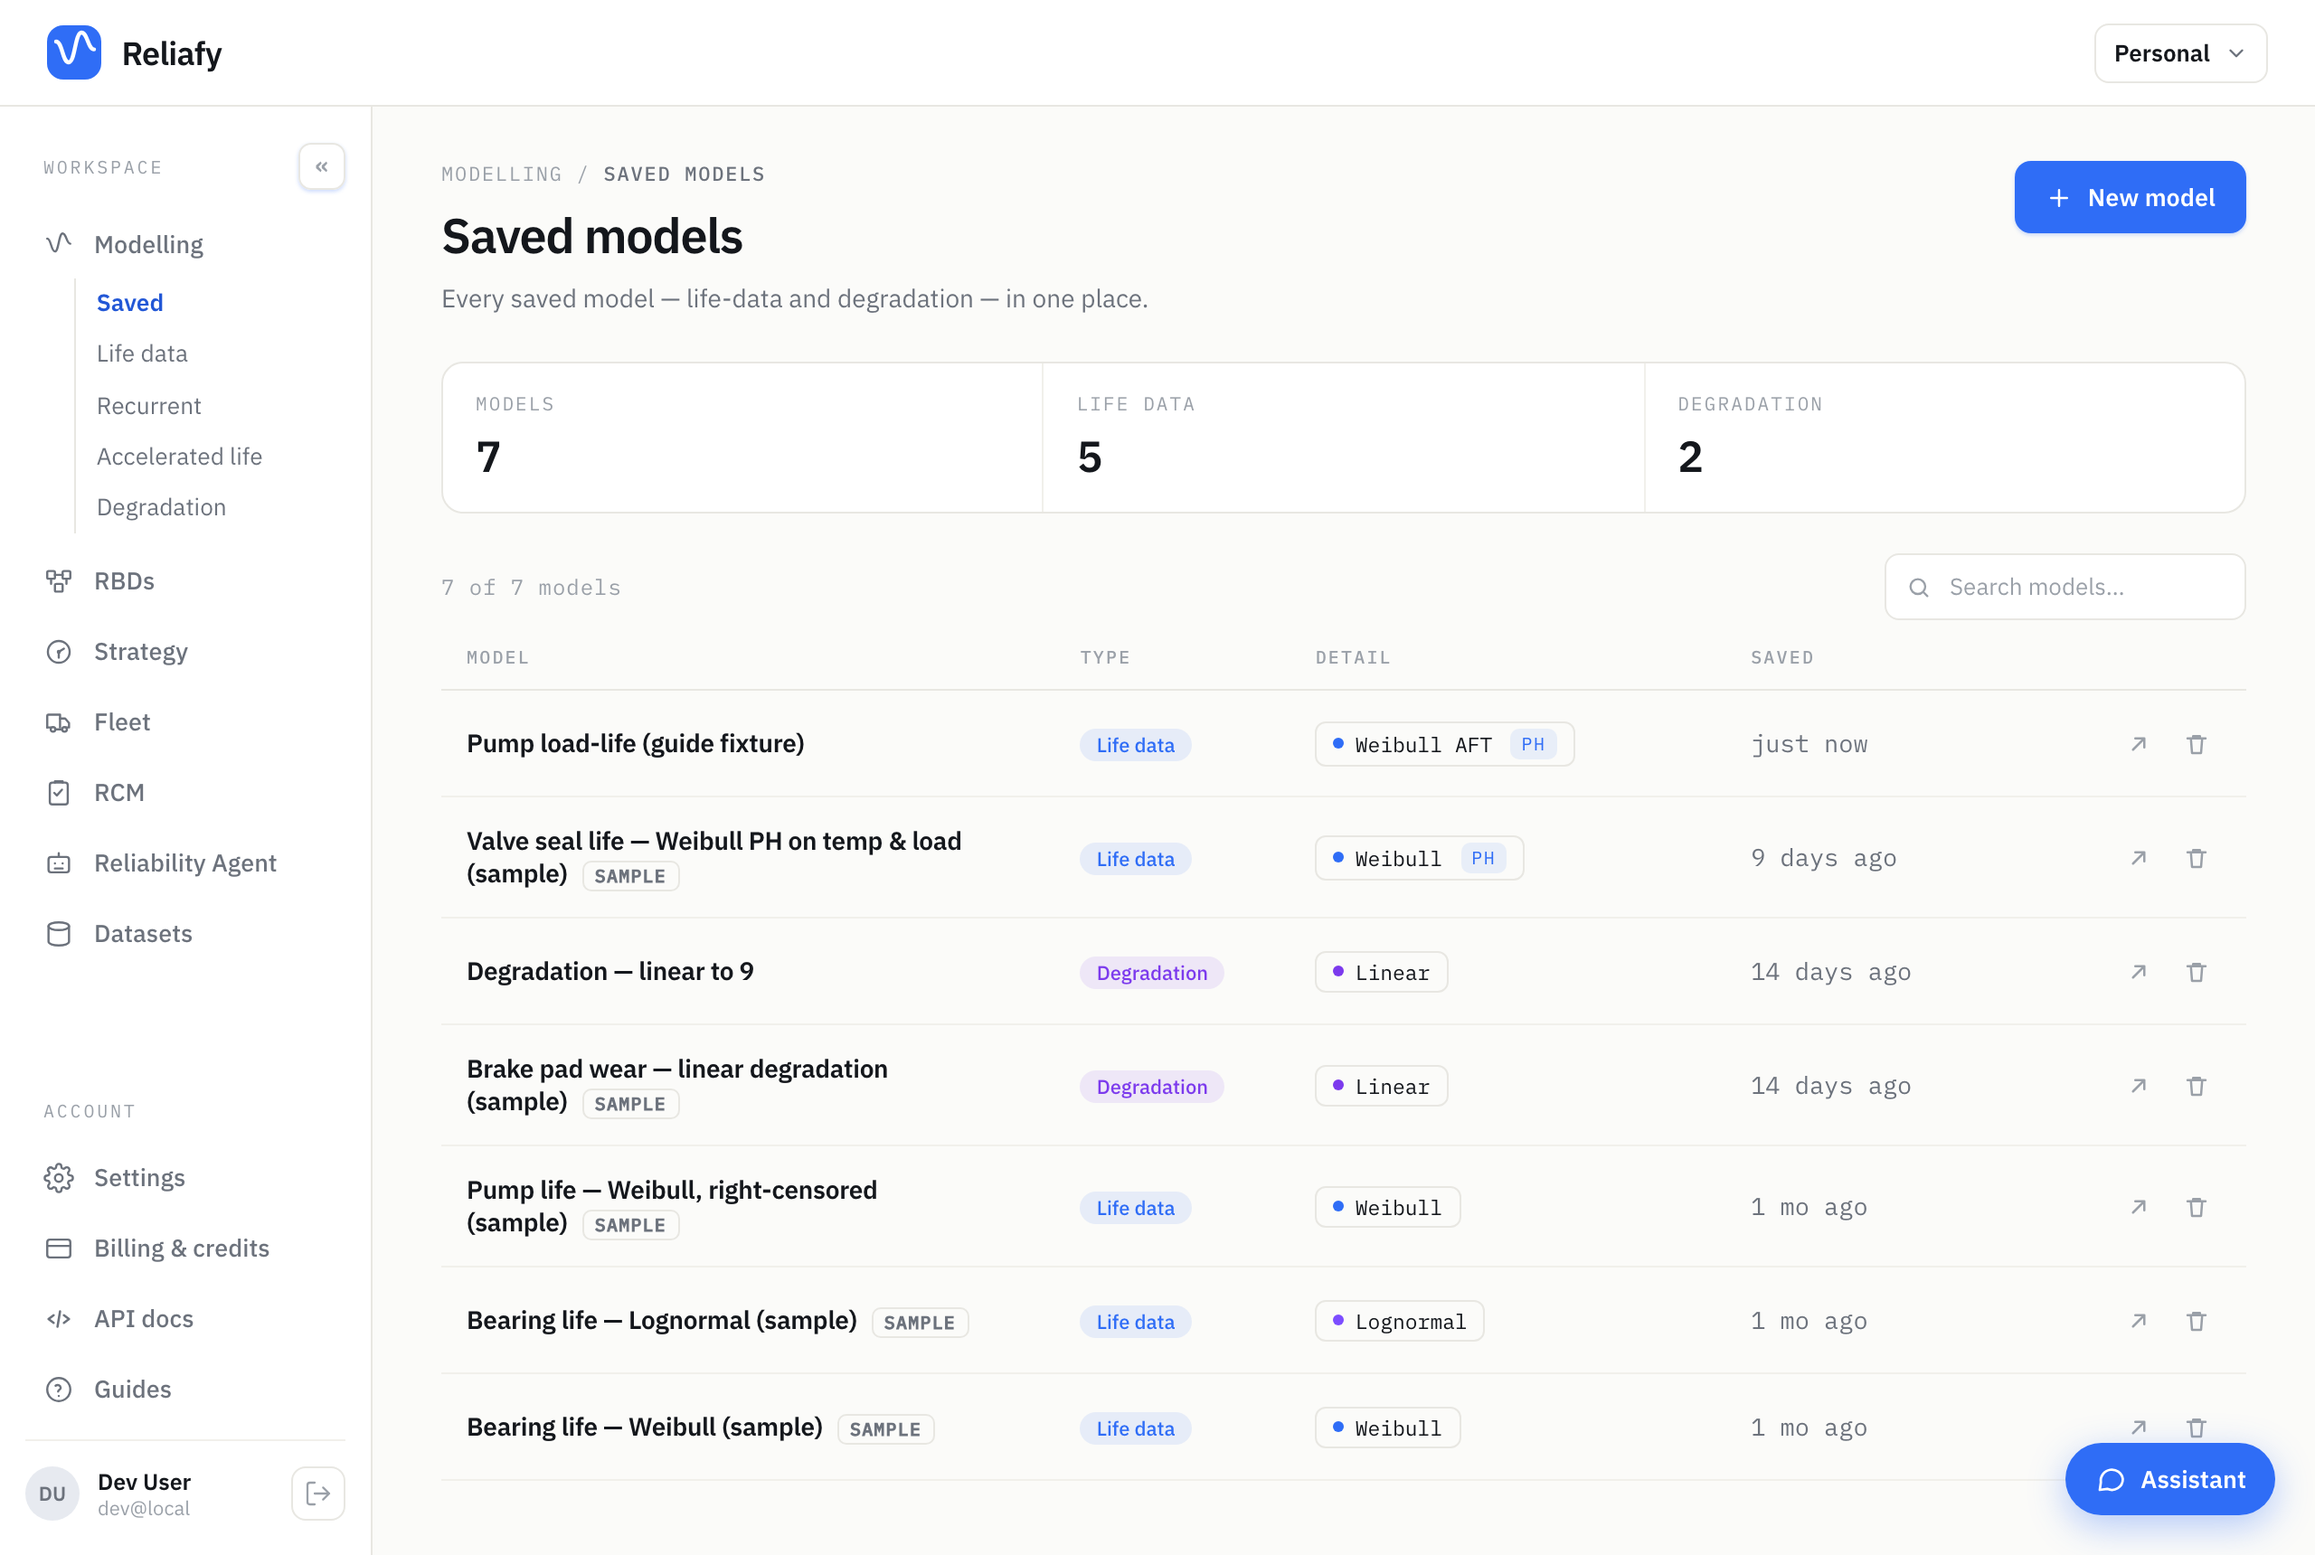
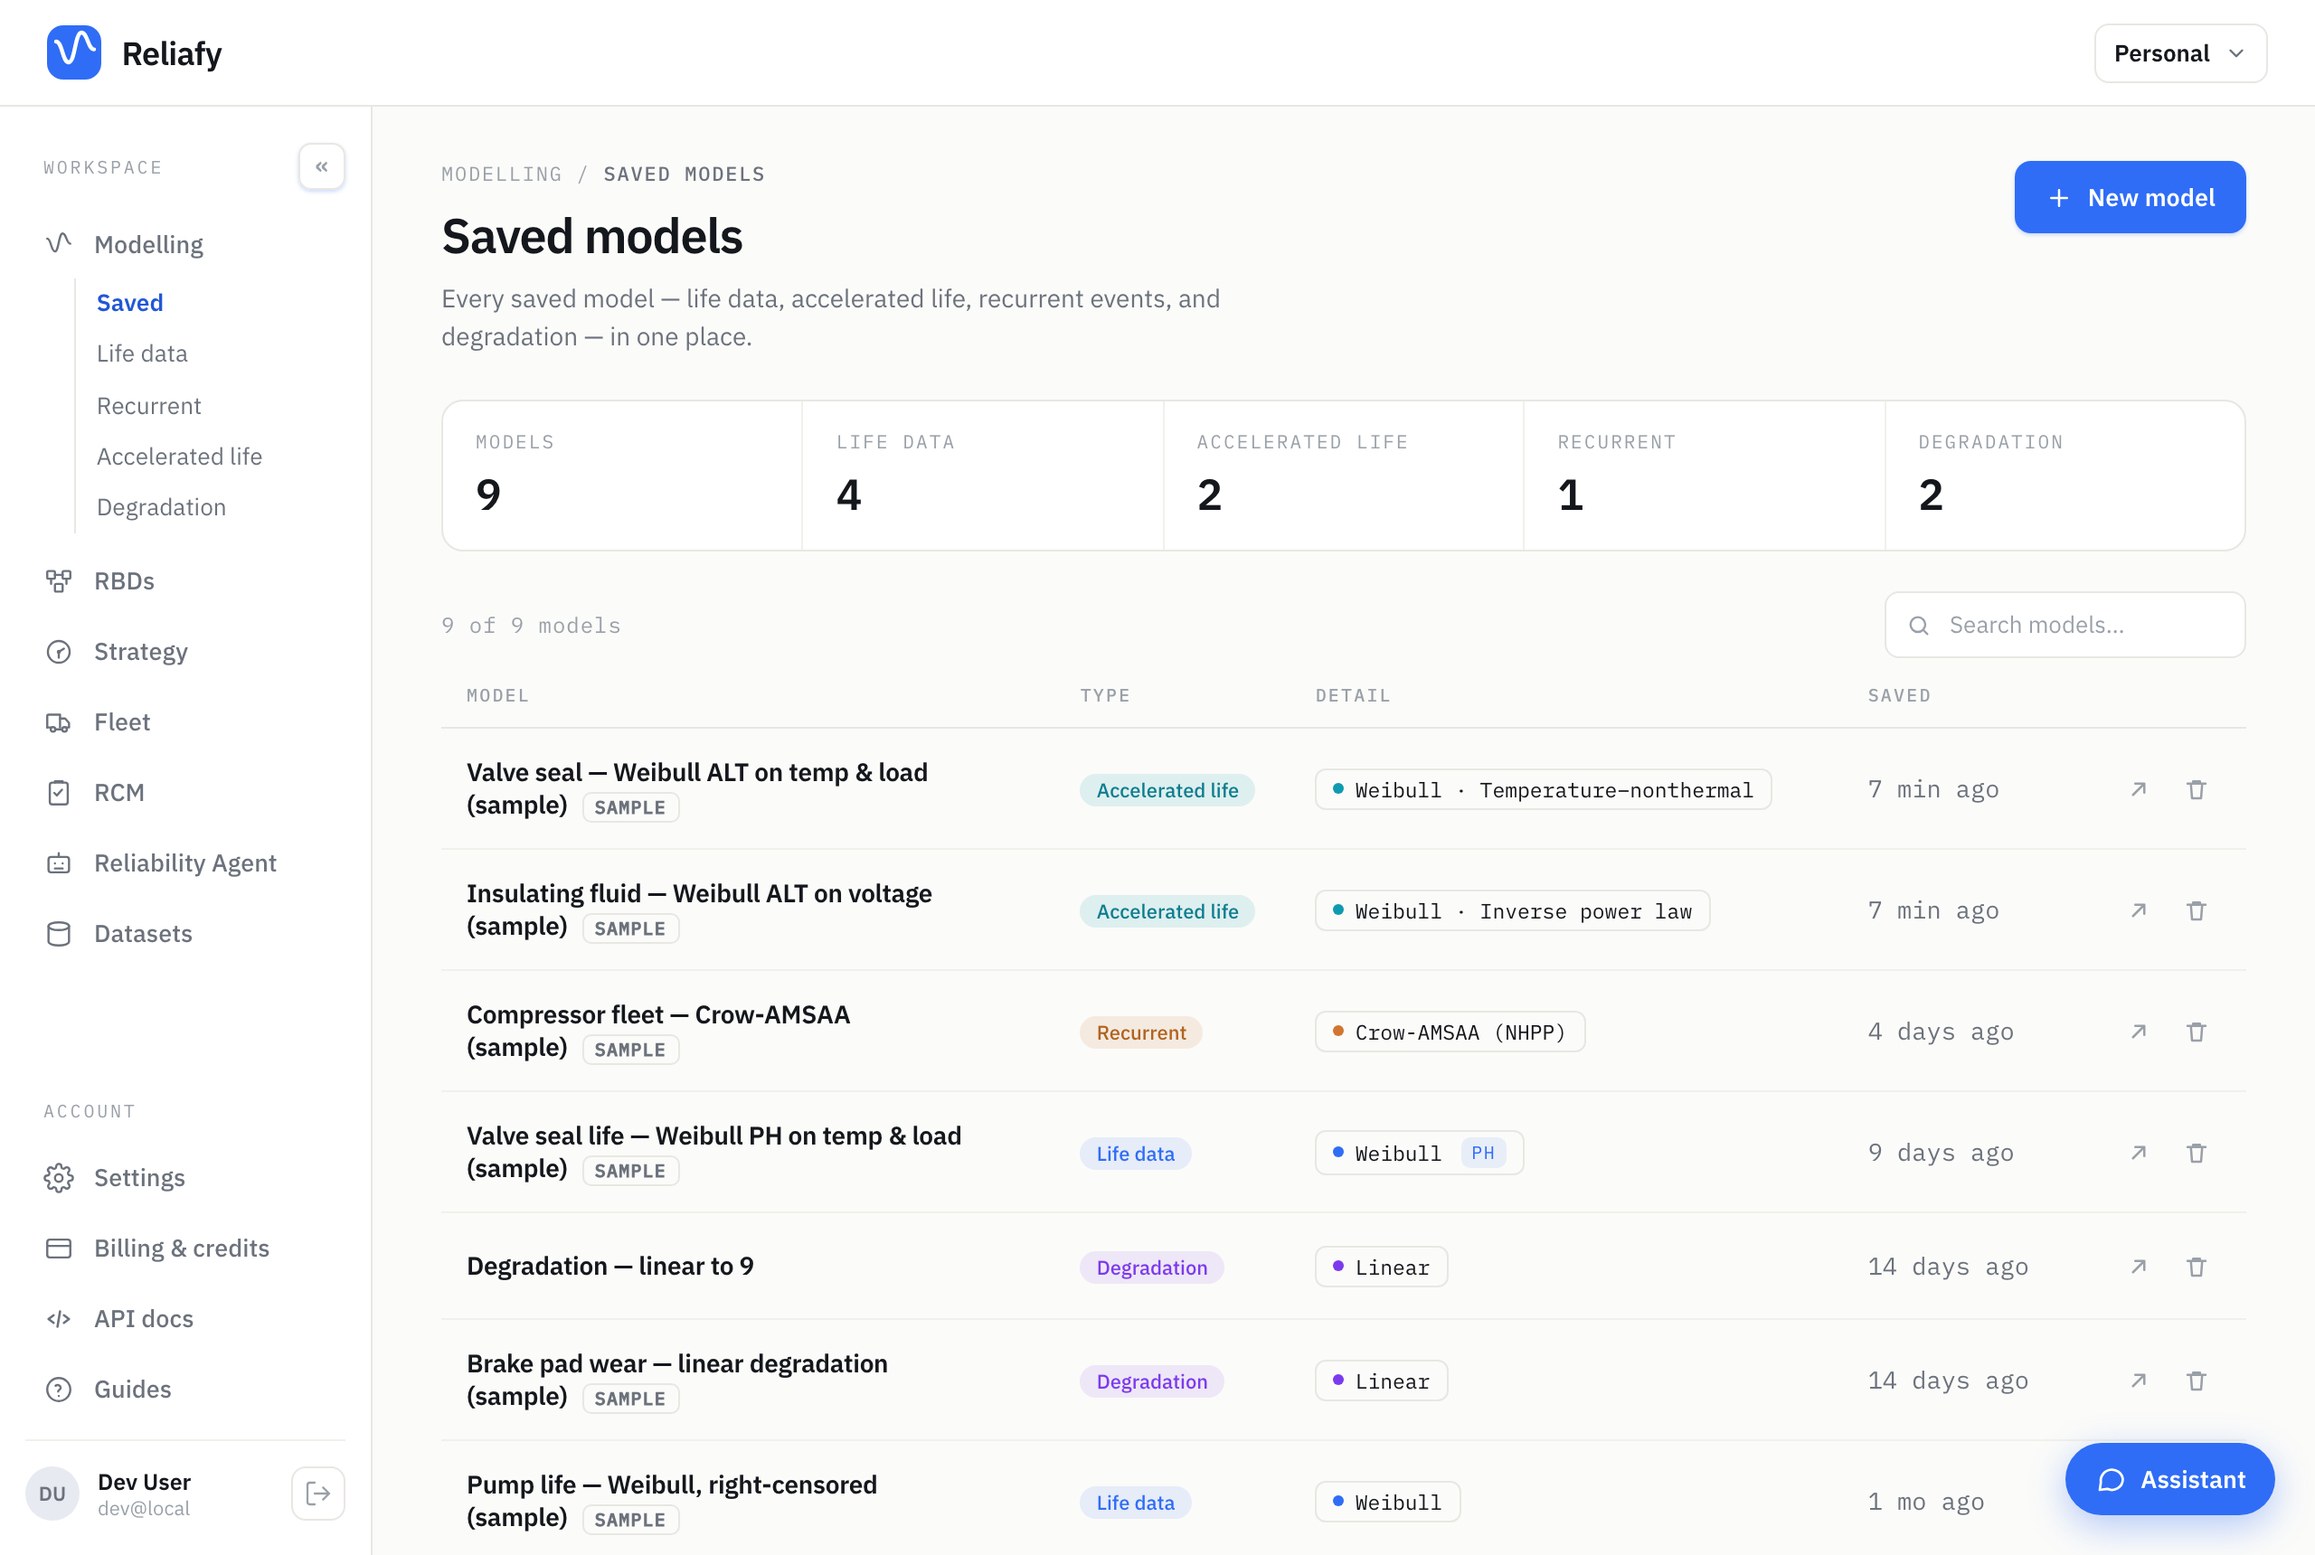
feat: accelerated-life and recurrent models in the Saved models list
Saved models only aggregated life-data and degradation — ALT and recurrent
models were saved and browsable in their own sections but missing from the
one list that claims to show everything.

- Both now appear with their own type tags ("Accelerated life" teal,
  "Recurrent" orange), rows linking to the right detail page, working delete,
  and per-kind counts in the stats row. ALT rows show the distribution and its
  life-stress law ("Weibull · Inverse power law"); recurrent shows the growth
  model. Search now matches on the type label too.

Also fixes a harness flaw the resulting screenshot exposed: fixtures were
created up front, so a "(guide fixture)" model appeared in list-page shots that
real users would never see. The capture now runs in two phases — sample-data
shots first, then fixtures created, shot, and removed in a finally block.

Claude-Session: https://claude.ai/code/session_01UqTrj83xe8FhoV5agiZpHW

diff --git a/frontend/src/views/AllModelsPage.jsx b/frontend/src/views/AllModelsPage.jsx
@@ -7,6 +7,10 @@ import {
   deleteModel,
   listDegradationModels,
   deleteDegradationModel,
+  listAltModels,
+  deleteAltModel,
+  listRecurrentModels,
+  deleteRecurrentModel,
 } from "../api.js";
 
 const PlusIcon = () => (
@@ -27,9 +31,16 @@ const TrashIcon = () => (
 
 const distLabel = (d = "") => String(d).replace(/\s*\(.*$/, "").replace(/\s+PH$/, "");
 
-// Every saved model — life-data and degradation — in one list. Rows link to
-// the right detail page; the type-specific lists live under Life data models
-// and Degradation models.
+const TYPE_LABEL = {
+  life: "Life data",
+  degradation: "Degradation",
+  alt: "Accelerated life",
+  recurrent: "Recurrent",
+};
+
+// Every saved model — life data, accelerated life, recurrent, degradation — in
+// one list. Rows link to the right detail page; the type-specific lists live
+// under each section.
 export default function AllModelsPage() {
   const navigate = useNavigate();
   const [rows, setRows] = useState(null);
@@ -37,8 +48,8 @@ export default function AllModelsPage() {
   const [query, setQuery] = useState("");
 
   const load = useCallback(() => {
-    Promise.all([listModels(), listDegradationModels()])
-      .then(([lm, dm]) => {
+    Promise.all([listModels(), listDegradationModels(), listAltModels(), listRecurrentModels()])
+      .then(([lm, dm, am, rm]) => {
         const life = (lm.models || []).map((m) => ({
           id: m.id,
           name: m.name,
@@ -63,7 +74,33 @@ export default function AllModelsPage() {
           shared_by: m.shared_by,
           to: `/modelling/degradation/${m.id}`,
         }));
-        setRows([...life, ...deg].sort((a, b) => (a.created_at > b.created_at ? -1 : 1)));
+        const acc = (am.models || []).map((m) => ({
+          id: m.id,
+          name: m.name,
+          type: "alt",
+          // e.g. "Weibull · Arrhenius" — the distribution and its life-stress law.
+          detail: [distLabel(m.distribution), m.life_model].filter(Boolean).join(" · ") || "—",
+          ph: false,
+          color: "#0f9ab0",
+          created_at: m.created_at,
+          is_sample: m.is_sample,
+          shared_by: m.shared_by,
+          to: `/modelling/alt/${m.id}`,
+        }));
+        const rec = (rm.models || []).map((m) => ({
+          id: m.id,
+          name: m.name,
+          type: "recurrent",
+          detail: m.model || "—",
+          ph: false,
+          color: "#d0762f",
+          created_at: m.created_at,
+          is_sample: m.is_sample,
+          shared_by: m.shared_by,
+          to: `/modelling/recurrent/${m.id}`,
+        }));
+        setRows([...life, ...deg, ...acc, ...rec]
+          .sort((a, b) => (a.created_at > b.created_at ? -1 : 1)));
       })
       .catch((e) => setError(e.message));
   }, []);
@@ -77,7 +114,9 @@ export default function AllModelsPage() {
     if (!window.confirm(msg)) return;
     try {
       if (row.type === "life") await deleteModel(row.id);
-      else await deleteDegradationModel(row.id);
+      else if (row.type === "degradation") await deleteDegradationModel(row.id);
+      else if (row.type === "alt") await deleteAltModel(row.id);
+      else await deleteRecurrentModel(row.id);
       load();
     } catch (err) {
       setError(err.message);
@@ -85,9 +124,10 @@ export default function AllModelsPage() {
   };
 
   const loading = rows === null;
-  const life = (rows || []).filter((r) => r.type === "life").length;
-  const deg = (rows || []).filter((r) => r.type === "degradation").length;
-  const visible = (rows || []).filter((r) => matches(query, r.name, r.detail));
+  const countOf = (t) => (rows || []).filter((r) => r.type === t).length;
+  const visible = (rows || []).filter((r) =>
+    matches(query, r.name, r.detail, TYPE_LABEL[r.type])
+  );
 
   return (
     <div className="app">
@@ -97,7 +137,7 @@ export default function AllModelsPage() {
             <button className="crumb-link" onClick={() => navigate("/modelling")}>Modelling</button> / <b>Saved models</b>
           </div>
           <h1>Saved models</h1>
-          <p>Every saved model — life-data and degradation — in one place.</p>
+          <p>Every saved model — life data, accelerated life, recurrent events, and degradation — in one place.</p>
         </div>
         <div className="row" style={{ margin: 0 }}>
           <button onClick={() => navigate("/modelling/new")}>
@@ -119,8 +159,10 @@ export default function AllModelsPage() {
         <>
           <div className="stats">
             <div className="stat"><div className="k">Models</div><div className="v">{rows.length}</div></div>
-            <div className="stat"><div className="k">Life data</div><div className="v">{life}</div></div>
-            <div className="stat"><div className="k">Degradation</div><div className="v">{deg}</div></div>
+            <div className="stat"><div className="k">Life data</div><div className="v">{countOf("life")}</div></div>
+            <div className="stat"><div className="k">Accelerated life</div><div className="v">{countOf("alt")}</div></div>
+            <div className="stat"><div className="k">Recurrent</div><div className="v">{countOf("recurrent")}</div></div>
+            <div className="stat"><div className="k">Degradation</div><div className="v">{countOf("degradation")}</div></div>
           </div>
 
           <div className="tablebar">
@@ -151,9 +193,7 @@ export default function AllModelsPage() {
                       </div>
                     </td>
                     <td>
-                      <span className={"type-tag " + r.type}>
-                        {r.type === "life" ? "Life data" : "Degradation"}
-                      </span>
+                      <span className={"type-tag " + r.type}>{TYPE_LABEL[r.type]}</span>
                     </td>
                     <td>
                       <span className="dpill">

diff --git a/frontend/src/index.css b/frontend/src/index.css
@@ -6117,3 +6117,7 @@ button.danger:hover { background: #fdeeee; }
   border-radius: 999px; padding: 1px 9px; font-size: 11.5px; font-weight: 600;
   text-transform: uppercase; letter-spacing: 0.04em;
 }
+
+/* Saved-models type tags for the newer model kinds */
+.type-tag.alt { background: rgba(15, 154, 176, 0.12); color: #0c7d8f; }
+.type-tag.recurrent { background: rgba(208, 118, 47, 0.12); color: #b0631f; }
